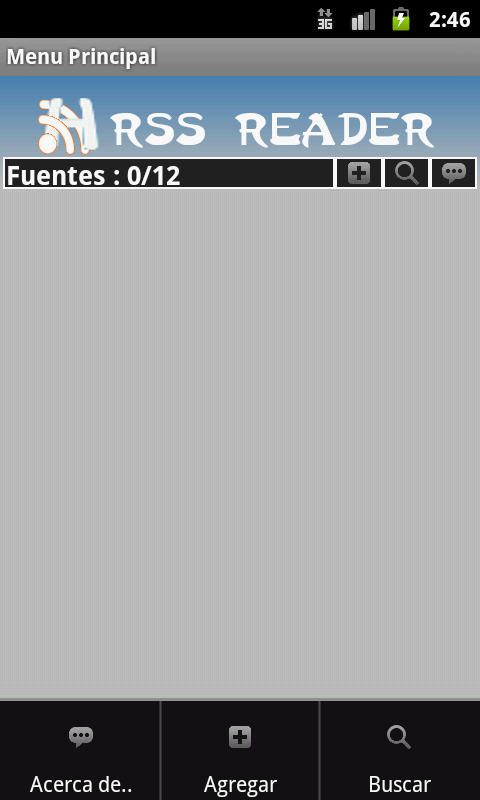
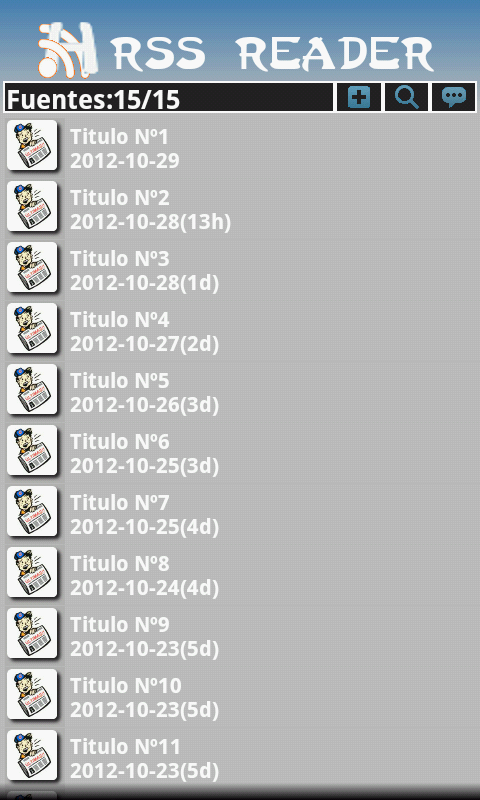
ListView compleja + BaseAdapter + envio de datos entre activitys con bundle

diff --git a/herras78/RSSReader/src/com/valles/rssreader/ItemReader.java b/herras78/RSSReader/src/com/valles/rssreader/ItemReader.java
@@ -1,0 +1,43 @@
+package com.valles.rssreader;
+
+import android.app.Activity;
+import android.content.Context;
+import android.content.Intent;
+import android.graphics.Typeface;
+import android.os.Bundle;
+import android.view.KeyEvent;
+import android.widget.ImageView;
+import android.widget.TextView;
+
+public class ItemReader extends Activity {
+
+	protected void onCreate(Bundle savedInstanceState) {
+		super.onCreate(savedInstanceState);
+		setContentView(R.layout.item_reader);
+		final Context context = this;
+		
+		Bundle bundle = getIntent().getExtras();
+		
+		final TextView LblTitulo = (TextView) findViewById(R.id.lbl_titulo_reader);
+	    final Typeface font1 = Typeface.createFromAsset(getAssets(),"Last Ninja.ttf");
+	    LblTitulo.setTypeface(font1);
+	    
+	    final TextView TxtDate = (TextView) findViewById(R.id.date_reader);
+	    final TextView TxtTit = (TextView) findViewById(R.id.tit_reader);
+	    final ImageView ImgReader = (ImageView)findViewById(R.id.img_reader);
+	    
+	    TxtDate.setText(bundle.getString("FECHA"));
+	    TxtTit.setText(bundle.getString("TITULO"));
+	    ImgReader.setImageDrawable(context.getResources().getDrawable(bundle.getInt("IMAGEN")));
+	    
+	}
+	
+	public boolean onKeyDown(int keyCode, KeyEvent event) {
+		if (keyCode == KeyEvent.KEYCODE_BACK) {
+			Intent intent = new Intent(ItemReader.this, ArticleListActivity.class);     
+	        startActivity(intent); 
+           return true;
+        }
+        return false;
+    }
+}

diff --git a/herras78/RSSReader/src/com/valles/rssreader/FeedItem.java b/herras78/RSSReader/src/com/valles/rssreader/FeedItem.java
@@ -1,0 +1,26 @@
+package com.valles.rssreader;
+
+public class FeedItem {	
+	public String Titulo;
+	public long Date;
+	public int Imagen;
+	
+	public String getTitulo() {
+		return Titulo;
+	}
+
+	public long getDate() {
+		return Date;
+	}
+
+	public int getImagen() {
+		return Imagen;
+	}
+
+	public void FillItem (String tit,long dat, int img){
+		
+		Titulo = tit;
+		Date = dat;
+		Imagen = img;		
+	}	
+}
